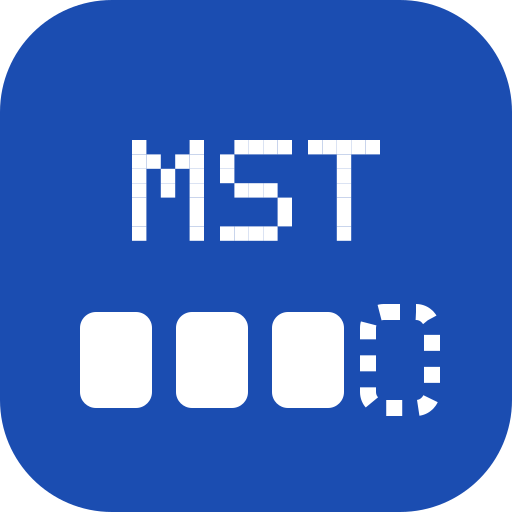
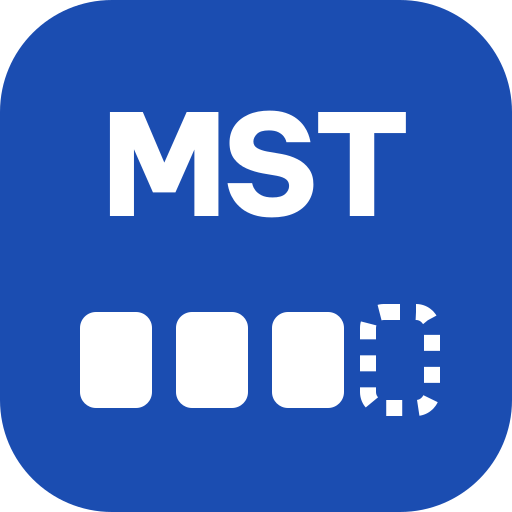
fix: ve lai chu MST bang font dam lien net thay vi pixel
Thay the phan chu MST dang pixel/rect-grid bang glyph vector that duoc
trich xuat tu font Be Vietnam Pro ExtraBold (opentype.js), cho net chu
muot va dam nhu typography thuc su. Cap nhat scripts/build-favicons.ts
de tai font tam thoi luc chay script (khong commit font vao repo) va
sinh lai toan bo bo icon (app/icon.svg, favicon.ico, apple-icon.png,
icon-192/512.png) tu cung mot nguon glyph.

Changed region(s): [[0.1875, 0.2188, 0.8125, 0.4688]]

diff --git a/scripts/build-favicons.ts b/scripts/build-favicons.ts
@@ -1,24 +1,180 @@
 // One-off generator: renders assets/favicon/*.svg into the site's favicon set.
+// The "MST" glyphs are drawn from a real font (extracted via opentype.js) so
+// the letters are smooth vector shapes, not pixel/rect-grid approximations.
 // Run with: npx tsx scripts/build-favicons.ts
-import { mkdir, readFile, writeFile } from "node:fs/promises";
+import { mkdir, readFile, writeFile, rm } from "node:fs/promises";
+import { tmpdir } from "node:os";
 import path from "node:path";
-import sharp from "sharp";
+import sharp, { type OverlayOptions } from "sharp";
 import pngToIco from "png-to-ico";
+import opentype from "opentype.js";
 
 const ROOT = path.resolve(__dirname, "..");
 const LARGE_SVG = path.join(ROOT, "assets/favicon/mst-large.svg");
 const SMALL_SVG = path.join(ROOT, "assets/favicon/mst-small.svg");
+
+const BLUE = "#1B4DB1";
+const WHITE = "#FFFFFF";
+const CORNER_RADIUS = 14;
+const GRID = 64;
+
+// Primary font: Be Vietnam Pro ExtraBold (SIL OFL). Fallback: JetBrains Mono
+// ExtraBold (also SIL OFL) if the primary download fails for any reason.
+const PRIMARY_FONT_URL =
+  "https://raw.githubusercontent.com/google/fonts/main/ofl/bevietnampro/BeVietnamPro-ExtraBold.ttf";
+const FALLBACK_FONT_URL =
+  "https://raw.githubusercontent.com/google/fonts/main/ofl/jetbrainsmono/JetBrainsMono[wght].ttf";
+
+let usedFallbackFont = false;
+
+async function downloadFont(): Promise<{ buffer: Buffer; usedFallback: boolean }> {
+  try {
+    const res = await fetch(PRIMARY_FONT_URL);
+    if (!res.ok) throw new Error(`HTTP ${res.status}`);
+    const buffer = Buffer.from(await res.arrayBuffer());
+    return { buffer, usedFallback: false };
+  } catch (err) {
+    console.warn(
+      `Primary font (Be Vietnam Pro ExtraBold) download failed: ${(err as Error).message}. Falling back to JetBrains Mono ExtraBold.`
+    );
+    const res = await fetch(FALLBACK_FONT_URL);
+    if (!res.ok) throw new Error(`Fallback font download failed: HTTP ${res.status}`);
+    const buffer = Buffer.from(await res.arrayBuffer());
+    return { buffer, usedFallback: true };
+  }
+}
+
+/**
+ * Build an SVG <path> "d" string for the text "MST" set in the given font,
+ * scaled to the requested cap height, horizontally centered around cx, with
+ * its top edge at `top`. Uses opentype.js getPath()/getPaths() so the result
+ * is real vector glyph outlines (no <text>, no pixel grid).
+ */
+function buildMstPath(
+  font: opentype.Font,
+  capHeightUnits: number,
+  cx: number,
+  top: number,
+  letterSpacing: number
+): { d: string; width: number } {
+  const unitsPerEm = font.unitsPerEm;
+  // Cap height (height of capital letters) approximated via ascender, since
+  // opentype.js doesn't expose a direct "capHeight" for all fonts reliably.
+  const os2CapHeight = (font.tables as any)?.os2?.sCapHeight;
+  const capHeightFontUnits = os2CapHeight && os2CapHeight > 0 ? os2CapHeight : font.ascender * 0.72;
+  const fontSize = (capHeightUnits / capHeightFontUnits) * unitsPerEm;
+
+  const text = "MST";
+  // First pass: measure total width with letter spacing so we can center it.
+  let totalWidth = 0;
+  const glyphWidths: number[] = [];
+  for (const ch of text) {
+    const glyph = font.charToGlyph(ch);
+    const w = (glyph.advanceWidth ?? 0) * (fontSize / unitsPerEm);
+    glyphWidths.push(w);
+    totalWidth += w;
+  }
+  totalWidth += letterSpacing * (text.length - 1);
+
+  const startX = cx - totalWidth / 2;
+  const baselineY = top + capHeightUnits;
+
+  let x = startX;
+  const pathStrings: string[] = [];
+  for (let i = 0; i < text.length; i++) {
+    const ch = text[i];
+    const glyphPath = font.getPath(ch, x, baselineY, fontSize);
+    pathStrings.push(glyphPath.toPathData(3));
+    x += glyphWidths[i] + letterSpacing;
+  }
+
+  return { d: pathStrings.join(" "), width: totalWidth };
+}
+
+function roundedSquareSvg(inner: string): string {
+  return `<svg xmlns="http://www.w3.org/2000/svg" viewBox="0 0 ${GRID} ${GRID}">
+  <rect x="0" y="0" width="${GRID}" height="${GRID}" rx="${CORNER_RADIUS}" fill="${BLUE}"/>
+${inner}
+</svg>
+`;
+}
+
+function buildLargeSvg(font: opentype.Font): string {
+  // Cap height ~13 units, positioned in the top half of the 64x64 square.
+  const capHeight = 13;
+  const top = 14; // top edge of the letters, within the top half
+  const letterSpacing = -0.6; // slightly tight tracking
+  const { d } = buildMstPath(font, capHeight, GRID / 2, top, letterSpacing);
+
+  const boxes = `  <rect x="10" y="39" width="9" height="12" rx="2" fill="${WHITE}"/>
+  <rect x="22" y="39" width="9" height="12" rx="2" fill="${WHITE}"/>
+  <rect x="34" y="39" width="9" height="12" rx="2" fill="${WHITE}"/>
+  <rect x="46" y="39" width="8" height="12" rx="2" fill="none" stroke="${WHITE}" stroke-width="2" stroke-dasharray="2 2"/>`;
+
+  const inner = `  <path d="${d}" fill="${WHITE}"/>\n${boxes}`;
+  return roundedSquareSvg(inner);
+}
+
+function buildSmallSvg(font: opentype.Font): string {
+  // "MST" as large as fits with ~6 units of side padding, vertically
+  // centered in the square. No boxes.
+  const padding = 6;
+  const maxWidth = GRID - padding * 2;
+  const letterSpacing = -0.8; // tighter tracking so it reads clearly at 16px
+
+  // Binary-search-ish: start from a candidate cap height and scale to fit width.
+  let capHeight = 30;
+  let { d, width } = buildMstPath(font, capHeight, GRID / 2, 0, letterSpacing);
+  if (width > maxWidth) {
+    const scale = maxWidth / width;
+    capHeight *= scale;
+    ({ d, width } = buildMstPath(font, capHeight, GRID / 2, 0, letterSpacing * scale));
+  }
+
+  // Vertically center: re-render with top computed from desired centering.
+  const top = (GRID - capHeight) / 2;
+  ({ d } = buildMstPath(font, capHeight, GRID / 2, top, letterSpacing));
+
+  const inner = `  <path d="${d}" fill="${WHITE}"/>`;
+  return roundedSquareSvg(inner);
+}
 
 async function render(svgPath: string, size: number): Promise<Buffer> {
   const svg = await readFile(svgPath);
   return sharp(svg).resize(size, size).png().toBuffer();
 }
 
+async function renderBuffer(svgBuffer: Buffer, size: number): Promise<Buffer> {
+  return sharp(svgBuffer).resize(size, size).png().toBuffer();
+}
+
 async function main() {
   await mkdir(path.join(ROOT, "public"), { recursive: true });
 
+  // Download the font into a temp folder at run time; never committed/shipped.
+  const tmpDir = path.join(tmpdir(), `masothue-favicon-font-${Date.now()}`);
+  await mkdir(tmpDir, { recursive: true });
+  const { buffer: fontBuffer, usedFallback } = await downloadFont();
+  usedFallbackFont = usedFallback;
+  const fontPath = path.join(tmpDir, "favicon-font.ttf");
+  await writeFile(fontPath, fontBuffer);
+
+  let font: opentype.Font;
+  try {
+    font = opentype.parse(
+      fontBuffer.buffer.slice(fontBuffer.byteOffset, fontBuffer.byteOffset + fontBuffer.byteLength)
+    );
+  } finally {
+    await rm(tmpDir, { recursive: true, force: true });
+  }
+
+  const largeSvg = buildLargeSvg(font);
+  const smallSvg = buildSmallSvg(font);
+
+  await writeFile(LARGE_SVG, largeSvg);
+  await writeFile(SMALL_SVG, smallSvg);
+
   // app/icon.svg — LARGE variant, used by Next.js for the SVG favicon.
-  const largeSvg = await readFile(LARGE_SVG, "utf8");
   await writeFile(path.join(ROOT, "app/icon.svg"), largeSvg);
 
   // app/favicon.ico — 16 & 32 (SMALL) + 48 (LARGE).
@@ -47,7 +203,98 @@ async function main() {
   await writeFile(path.join(ROOT, "public/icon-192.png"), png192);
   await writeFile(path.join(ROOT, "public/icon-512.png"), png512);
 
+  // Owner preview files (never committed — see .gitignore for tmp/).
+  const previewDir = path.join(ROOT, "tmp/favicon-preview");
+  await mkdir(previewDir, { recursive: true });
+
+  const large512 = await renderBuffer(Buffer.from(largeSvg), 512);
+  const small32 = await renderBuffer(Buffer.from(smallSvg), 32);
+  const small16 = await renderBuffer(Buffer.from(smallSvg), 16);
+  await writeFile(path.join(previewDir, "large-512.png"), large512);
+  await writeFile(path.join(previewDir, "small-32.png"), small32);
+  await writeFile(path.join(previewDir, "small-16.png"), small16);
+
+  await buildPreviewSheet(previewDir, largeSvg, smallSvg);
+
   console.log("Favicons generated.");
+  if (usedFallbackFont) {
+    console.log(
+      "NOTE: primary font (Be Vietnam Pro ExtraBold) could not be downloaded; JetBrains Mono ExtraBold was used as a fallback."
+    );
+  }
+}
+
+async function buildPreviewSheet(previewDir: string, largeSvg: string, smallSvg: string) {
+  const sizes = [16, 32, 48, 64, 128, 192, 512];
+  const cellSize = 140;
+  const padding = 20;
+  const labelHeight = 24;
+  const rowHeight = cellSize + labelHeight + padding;
+  const cols = sizes.length;
+  const sheetWidth = cols * cellSize + (cols + 1) * padding;
+  const rowsBg = ["#FFFFFF", "#E8E8EA"]; // white, then light-grey "tab bar"
+  const sheetHeight = rowsBg.length * rowHeight + padding;
+
+  const cells: { size: number; svg: string; png: Buffer }[] = [];
+  for (const size of sizes) {
+    const svg = size <= 32 ? smallSvg : largeSvg;
+    const png = await renderBuffer(Buffer.from(svg), Math.min(size, cellSize - 20));
+    cells.push({ size, svg, png });
+  }
+
+  const composites: OverlayOptions[] = [];
+  const rectSvgs: Buffer[] = [];
+
+  for (let row = 0; row < rowsBg.length; row++) {
+    for (let col = 0; col < cols; col++) {
+      const cell = cells[col];
+      const x = padding + col * (cellSize + padding);
+      const y = padding + row * rowHeight;
+      const iconSize = cell.png ? undefined : undefined;
+      composites.push({
+        input: cell.png,
+        left: Math.round(x + (cellSize - (await sharp(cell.png).metadata()).width!) / 2),
+        top: Math.round(y + (cellSize - (await sharp(cell.png).metadata()).height!) / 2),
+      });
+    }
+  }
+
+  const base = sharp({
+    create: {
+      width: sheetWidth,
+      height: sheetHeight,
+      channels: 4,
+      background: "#FFFFFF",
+    },
+  });
+
+  // Draw row background bands first, then icons, then labels via SVG text overlay.
+  const bandsSvg = rowsBg
+    .map(
+      (color, row) =>
+        `<rect x="0" y="${row * rowHeight}" width="${sheetWidth}" height="${rowHeight}" fill="${color}"/>`
+    )
+    .join("");
+  const labelsSvg = rowsBg
+    .map((_, row) =>
+      sizes
+        .map((size, col) => {
+          const x = padding + col * (cellSize + padding) + cellSize / 2;
+          const y = row * rowHeight + cellSize + padding + 16;
+          return `<text x="${x}" y="${y}" font-family="sans-serif" font-size="14" fill="#333333" text-anchor="middle">${size}px</text>`;
+        })
+        .join("")
+    )
+    .join("");
+  const overlaySvg = `<svg xmlns="http://www.w3.org/2000/svg" width="${sheetWidth}" height="${sheetHeight}">${bandsSvg}${labelsSvg}</svg>`;
+
+  const finalComposite: OverlayOptions[] = [
+    { input: Buffer.from(overlaySvg), left: 0, top: 0 },
+    ...composites,
+  ];
+
+  const sheet = await base.composite(finalComposite).png().toBuffer();
+  await writeFile(path.join(previewDir, "sheet.png"), sheet);
 }
 
 main().catch((err) => {
